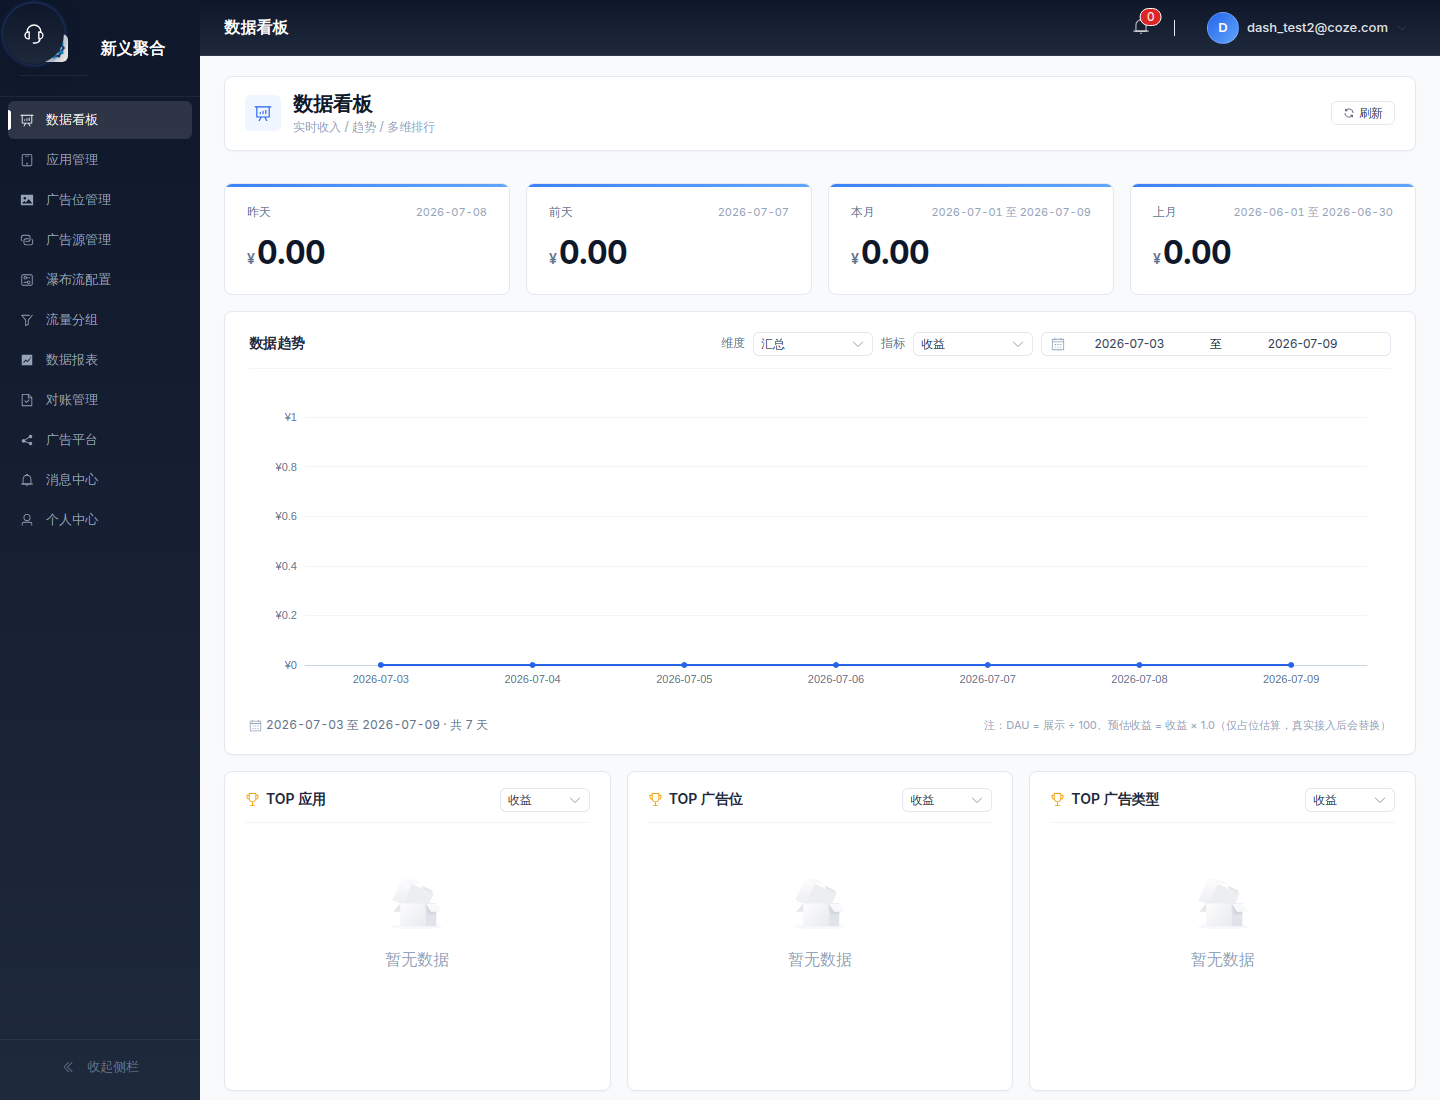
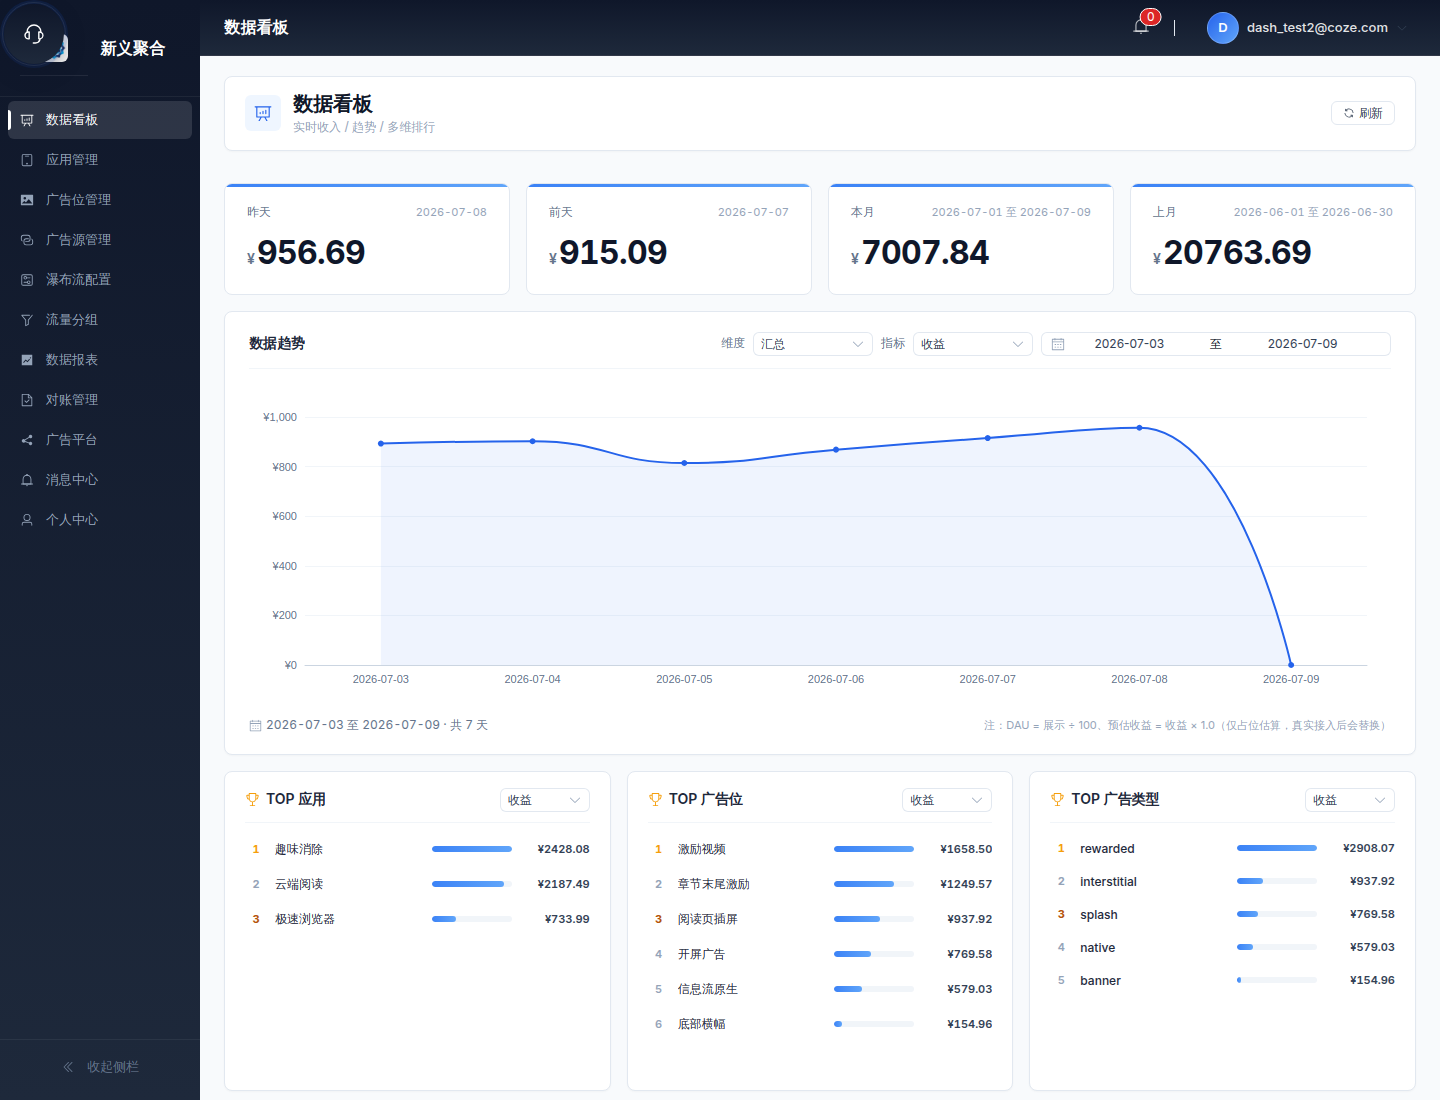
feat: 灌入丰富测试数据并修复 dashboard 维度配置
Coze-Commit-Type: user
Coze-User-ID: 3335283175079384
Coze-Conversation-ID: 9828427

diff --git a/server/routes/dashboard.ts b/server/routes/dashboard.ts
@@ -112,28 +112,40 @@ function roundMetric(m: string, v: number): number {
  *   此时 ranking/trend 接口会直接返回空数据，前端按"暂无数据"渲染
  */
 interface DimConfig {
-  table: string | null;        // null 表示无关联表，entity id 即展示名
-  idCol: string;
-  nameCol: string;
-  virtual: boolean;
+  table: string | null;        // 关联 entity 表（用于 enrichNames），null 表示无关联表
+  idCol: string;               // entity 表的主键 / 唯一标识列（用于 enrichNames）
+  nameCol: string;             // entity 表的友好名列（用于 enrichNames）
+  reportCol: string;           // report_daily 中该维度的列名（用于主查询 select / group by）
+  virtual: boolean;            // true = 维度不参与聚合（保留兼容，新维度都用 false）
+  isSoftDim?: boolean;         // true = report_daily 自带列，无独立 entity 表，id 即 name
 }
 function dimensionConfig(dim: string): DimConfig | null {
   const map: Record<string, DimConfig> = {
-    app: { table: 'app', idCol: 'app_key', nameCol: 'name', virtual: false },
-    placement: { table: 'placement', idCol: 'placement_id', nameCol: 'name', virtual: false },
-    network: { table: 'ad_source', idCol: 'id', nameCol: 'name', virtual: false },
-    adType: { table: null, idCol: 'ad_type', nameCol: 'ad_type', virtual: true },
-    region: { table: null, idCol: 'region', nameCol: 'region', virtual: true },
-    os: { table: null, idCol: 'os', nameCol: 'os', virtual: true },
+    app:       { table: 'app',       idCol: 'app_key',       nameCol: 'app_name',    reportCol: 'app_key',       virtual: false },
+    placement: { table: 'placement', idCol: 'placement_id',  nameCol: 'name',        reportCol: 'placement_id',  virtual: false },
+    network:   { table: 'ad_source', idCol: 'id',            nameCol: 'source_name', reportCol: 'ad_source_id',  virtual: false },
+    adType:    { table: null,        idCol: 'ad_type',       nameCol: 'ad_type',     reportCol: 'ad_type',       virtual: false, isSoftDim: true },
+    region:    { table: null,        idCol: 'region',        nameCol: 'region',      reportCol: 'region',        virtual: false, isSoftDim: true },
+    os:        { table: null,        idCol: 'os',            nameCol: 'os',          reportCol: 'os',            virtual: false, isSoftDim: true },
   };
   return map[dim] || null;
 }
 
-/** 批量查表，把 entity id 映射为友好名 */
+/** 批量查表，把 entity id 映射为友好名（软维度直接用 id 当 name） */
 async function enrichNames(cfg: DimConfig, ids: string[]): Promise<Record<string, string>> {
-  if (!cfg.table || !ids.length) return {};
-  const { data, error } = await db.from(cfg.table).select(`${cfg.idCol}, ${cfg.nameCol}`).in(cfg.idCol, ids);
-  if (error) return {};
+  if (!ids.length) return {};
+  if (cfg.isSoftDim) {
+    const m: Record<string, string> = {};
+    for (const id of ids) m[id] = id;
+    return m;
+  }
+  if (!cfg.table) return {};
+  const selectCols = cfg.idCol === cfg.nameCol ? cfg.idCol : `${cfg.idCol}, ${cfg.nameCol}`;
+  const { data, error } = await db.from(cfg.table).select(selectCols).in(cfg.idCol, ids);
+  if (error) {
+    console.error(`enrichNames(${cfg.table}) error:`, error.message);
+    return {};
+  }
   const m: Record<string, string> = {};
   for (const r of (data || []) as unknown as Array<Record<string, unknown>>) {
     m[String(r[cfg.idCol])] = String(r[cfg.nameCol] || r[cfg.idCol]);
@@ -251,7 +263,7 @@ router.get('/trend', authMiddleware, async (req: express.Request, res: express.R
 
     const { data, error } = await db
       .from('report_daily')
-      .select(`stat_date, ${cfg.idCol}, ${metricCol}`)
+      .select(`stat_date, ${cfg.reportCol}, ${metricCol}`)
       .eq('developer_id', developerId)
       .gte('stat_date', start)
       .lte('stat_date', end)
@@ -261,7 +273,7 @@ router.get('/trend', authMiddleware, async (req: express.Request, res: express.R
     // 1) 找 top 5 实体
     const entityTotals: Record<string, number> = {};
     for (const r of (data || []) as unknown as Array<Record<string, unknown>>) {
-      const e = String(r[cfg.idCol] || 'unknown');
+      const e = String(r[cfg.reportCol] || 'unknown');
       entityTotals[e] = (entityTotals[e] || 0) + Number(r[metricCol] || 0);
     }
     const topEntities = Object.entries(entityTotals)
@@ -275,7 +287,7 @@ router.get('/trend', authMiddleware, async (req: express.Request, res: express.R
     // 3) 按 entity + date 聚合
     const byEntityDate: Record<string, Record<string, number>> = {};
     for (const r of (data || []) as unknown as Array<Record<string, unknown>>) {
-      const e = String(r[cfg.idCol] || 'unknown');
+      const e = String(r[cfg.reportCol || cfg.idCol] || 'unknown');
       if (!topEntities.includes(e)) continue;
       const d = r.stat_date as string;
       if (!byEntityDate[e]) byEntityDate[e] = {};
@@ -326,7 +338,7 @@ router.get('/ranking/:dimension', authMiddleware, async (req: express.Request, r
 
     const { data, error } = await db
       .from('report_daily')
-      .select(`${cfg.idCol}, ${metricCol}`)
+      .select(`${cfg.reportCol || cfg.idCol}, ${metricCol}`)
       .eq('developer_id', developerId)
       .gte('stat_date', start)
       .lte('stat_date', end);
@@ -334,7 +346,7 @@ router.get('/ranking/:dimension', authMiddleware, async (req: express.Request, r
 
     const totals: Record<string, number> = {};
     for (const r of (data || []) as unknown as Array<Record<string, unknown>>) {
-      const e = String(r[cfg.idCol] || 'unknown');
+      const e = String(r[cfg.reportCol || cfg.idCol] || 'unknown');
       totals[e] = (totals[e] || 0) + Number(r[metricCol] || 0);
     }
 
